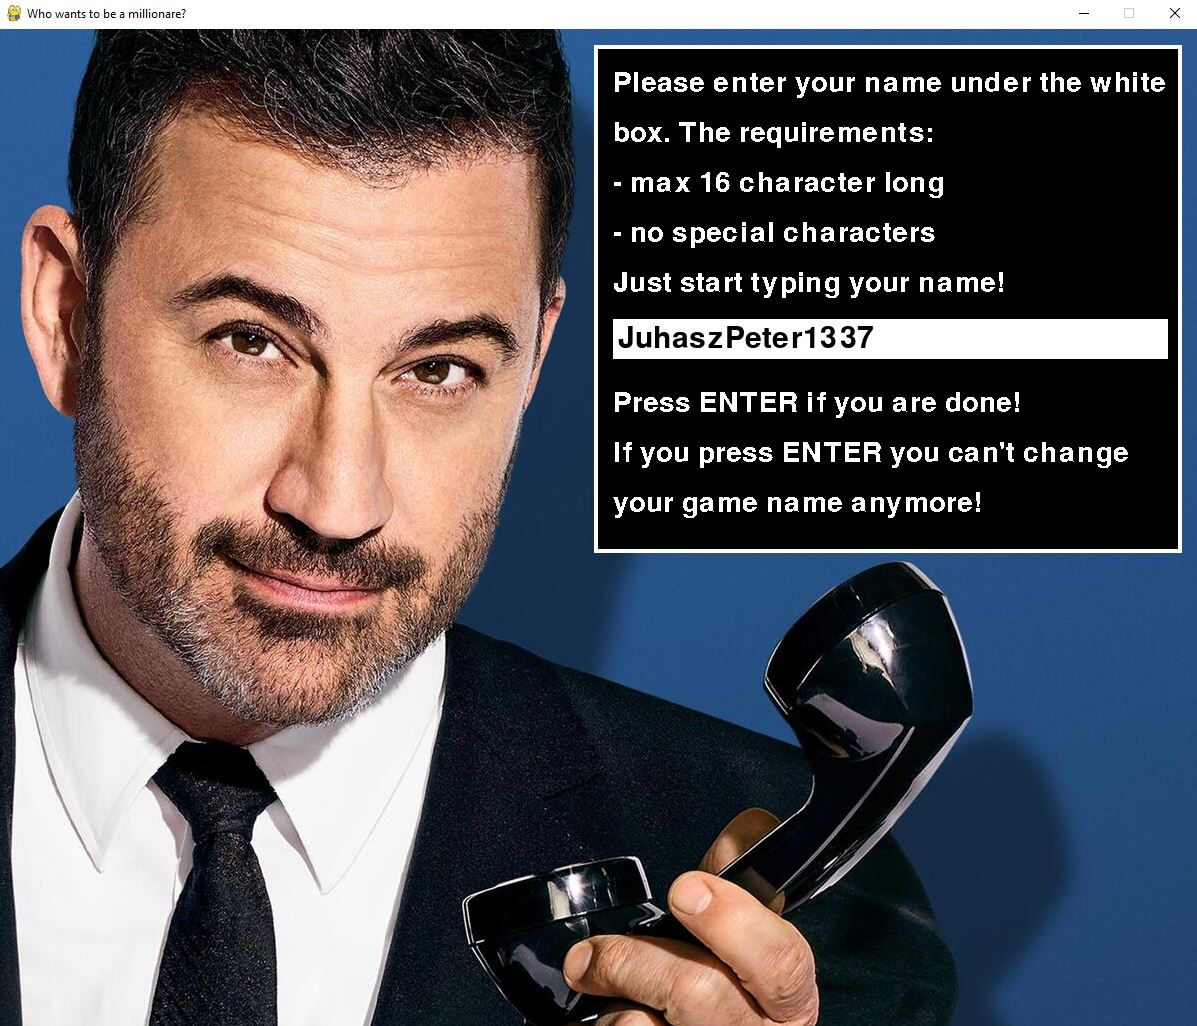
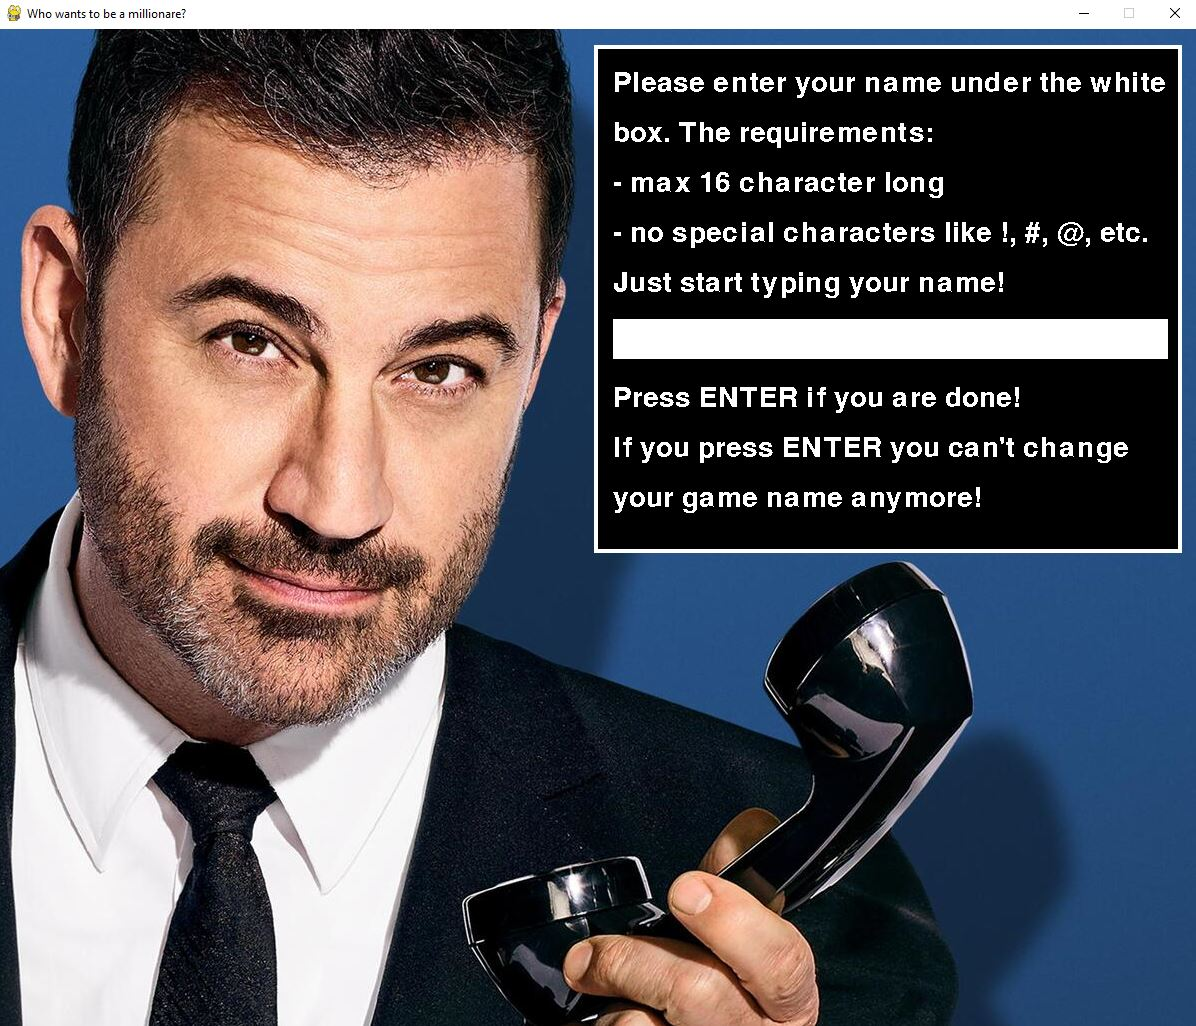
Changed name pic

diff --git a/screens.py b/screens.py
@@ -356,11 +356,11 @@ def input_name(screen):
     audience_text(screen, 2, "Please enter your name under the white", (615, 40))
     audience_text(screen, 2, "box. The requirements: ", (615, 90))
     audience_text(screen, 2, "- max 16 character long", (615, 140))
-    audience_text(screen, 2, "- no special characters", (615, 190))
+    audience_text(screen, 2, "- no special characters like !, #, @, etc.", (615, 190))
     audience_text(screen, 2, "Just start typing your name!", (615, 240))
-    audience_text(screen, 2, "Press ENTER if you are done!", (615, 360))
-    audience_text(screen, 2, "If you press ENTER you can't change", (615, 410))
-    audience_text(screen, 2, "your game name anymore!", (615, 460))
+    audience_text(screen, 2, "Press ENTER if you are done!", (615, 355))
+    audience_text(screen, 2, "If you press ENTER you can't change", (615, 405))
+    audience_text(screen, 2, "your game name anymore!", (615, 455))
 
     input_rect = pygame.Rect(615, 290, 555, 40)
     user_text = ""
